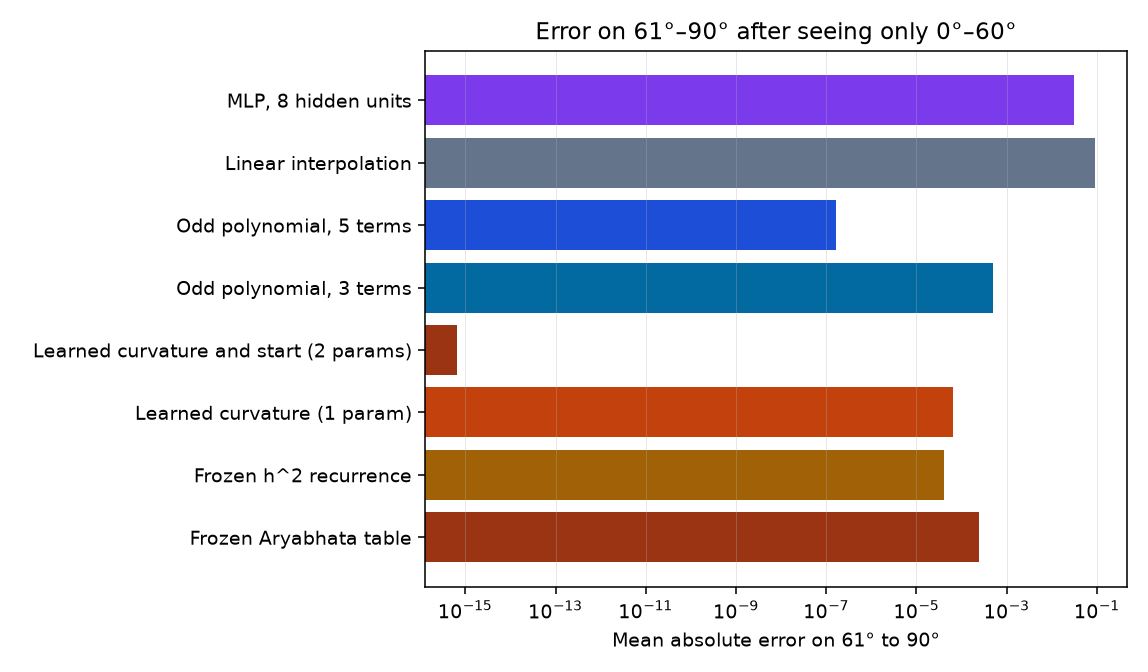
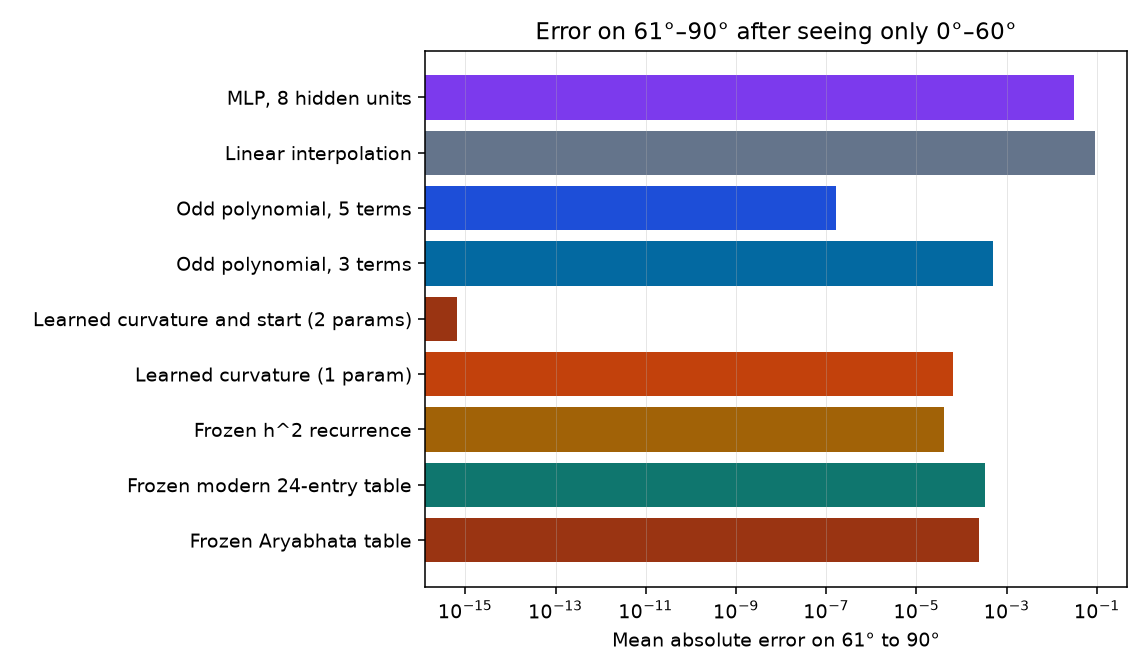
Add a same-size modern sine table as the lookup control.
Round math.sin to the arcminute on Aryabhata's 24 nodes so the printed table is compared with a lookup of equal size, not only with series and networks.

diff --git a/experiments/aryabhata/compare.py b/experiments/aryabhata/compare.py
@@ -39,6 +39,7 @@ from experiments.aryabhata.jya import (
     aryabhata_pi,
     aryabhata_unit_sines,
     modern_jya,
+    modern_rounded_jya,
     oracle_alpha,
     oracle_unit_sines,
     published_jya,
@@ -68,6 +69,8 @@ MLP_HIDDEN = 8
 
 _COLORS = {
     "Aryabhata printed table": "#9a3412",
+    "Modern 24-entry table": "#0f766e",
+    "Frozen modern 24-entry table": "#0f766e",
     "Aryabhata recurrence": "#c2410c",
     "Small-angle recurrence h^2": "#b45309",
     "Power series, 3 terms": "#0f766e",
@@ -117,6 +120,12 @@ def formula_report() -> list[dict]:
             "Gitikapada 12, the 24 integers he published",
             24,
             np.array(published_jya(), dtype=float) / RADIUS_ARCMINUTES,
+        ),
+        (
+            "Modern 24-entry table",
+            "Same 24 nodes and arcminute rounding, filled from math.sin",
+            24,
+            np.array(modern_rounded_jya(), dtype=float) / RADIUS_ARCMINUTES,
         ),
         (
             "Aryabhata recurrence",
@@ -246,6 +255,8 @@ def _score_learners(
     native_deg = np.concatenate([[0.0], np.arange(1, 25) * 3.75])
     native_y = np.concatenate([[0.0], np.array(published_jya(), dtype=float) / RADIUS_ARCMINUTES])
     frozen_table = np.interp(test_deg.astype(float), native_deg, native_y)
+    modern_y = np.concatenate([[0.0], np.array(modern_rounded_jya(), dtype=float) / RADIUS_ARCMINUTES])
+    frozen_modern = np.interp(test_deg.astype(float), native_deg, modern_y)
 
     return {
         "train_size": int(len(train_deg)),
@@ -265,6 +276,7 @@ def _score_learners(
         "mlp_q75": float(np.quantile(mlp_maes_arr, 0.75)),
         "Frozen h^2 recurrence": _finite_mae(frozen_h2, truth),
         "Frozen Aryabhata table": _finite_mae(frozen_table, truth),
+        "Frozen modern 24-entry table": _finite_mae(frozen_modern, truth),
     }
 
 
@@ -459,6 +471,7 @@ def _plot_errors(formulas: list[dict], path: Path) -> None:
 def _plot_learning(rows: list[dict], path: Path) -> None:
     methods = [
         "Frozen Aryabhata table",
+        "Frozen modern 24-entry table",
         "Frozen h^2 recurrence",
         "Learned curvature (1 param)",
         "Learned curvature and start (2 params)",
@@ -495,6 +508,7 @@ def _plot_learning(rows: list[dict], path: Path) -> None:
 def _plot_extrapolation(row: dict, path: Path) -> None:
     names = [
         "Frozen Aryabhata table",
+        "Frozen modern 24-entry table",
         "Frozen h^2 recurrence",
         "Learned curvature (1 param)",
         "Learned curvature and start (2 params)",
@@ -539,9 +553,14 @@ def _clean(value):
 
 
 def build_summary(mlp_seeds: int = MLP_SEEDS, mlp_steps: int = MLP_STEPS, kuttaka_trials: int = 400) -> dict:
+    started = time.perf_counter()
     formulas = formula_report()
     learning = learning_report(mlp_seeds=mlp_seeds, mlp_steps=mlp_steps)
     extra = extrapolation_report(mlp_seeds=mlp_seeds, mlp_steps=mlp_steps)
+    pi = pi_report()
+    kuttaka = kuttaka_report(kuttaka_trials)
+    roots = sqrt_report()
+    sums = sums_report()
     summary = {
         "ground_truth": "math.sin, math.pi, math.isqrt",
         "native_step_degrees": 3.75,
@@ -551,14 +570,15 @@ def build_summary(mlp_seeds: int = MLP_SEEDS, mlp_steps: int = MLP_STEPS, kuttak
         "oracle_alpha_native_step": oracle_alpha(math.pi / 48),
         "small_angle_alpha_native_step": small_angle_alpha(math.pi / 48),
         "aryabhata_alpha_native_step": 1 / 225,
+        "runtime_seconds": time.perf_counter() - started,
         "mlp": {"hidden": MLP_HIDDEN, "steps": mlp_steps, "seeds": mlp_seeds, "parameters": 1 * MLP_HIDDEN + MLP_HIDDEN + MLP_HIDDEN + 1},
         "sine_formulas": _strip_arrays(formulas),
         "sample_efficiency": learning,
         "extrapolation": {key: value for key, value in extra.items()},
-        "pi": pi_report(),
-        "kuttaka": kuttaka_report(kuttaka_trials),
-        "square_roots": sqrt_report(),
-        "sums": sums_report(),
+        "pi": pi,
+        "kuttaka": kuttaka,
+        "square_roots": roots,
+        "sums": sums,
     }
     summary["_plot_cache"] = {"formulas": formulas, "learning": learning, "extrapolation": extra}
     return summary

diff --git a/experiments/aryabhata/test_aryabhata.py b/experiments/aryabhata/test_aryabhata.py
@@ -22,6 +22,7 @@ from experiments.aryabhata.jya import (
     RADIUS_ARCMINUTES,
     aryabhata_pi,
     modern_jya,
+    modern_rounded_jya,
     oracle_alpha,
     oracle_unit_sines,
     published_jya,
@@ -53,6 +54,13 @@ class JyaTests(unittest.TestCase):
         truth = modern_jya()
         worst = max(abs(pred - got) for pred, got in zip(published_jya(), truth))
         self.assertLess(worst, 1.0)
+
+    def test_same_size_modern_table_rounds_within_half_an_arcminute(self):
+        truth = modern_jya()
+        rounded = modern_rounded_jya()
+        self.assertEqual(len(rounded), len(published_jya()))
+        worst = max(abs(pred - got) for pred, got in zip(rounded, truth))
+        self.assertLessEqual(worst, 0.5)
 
     def test_thirty_degrees_is_half_the_radius(self):
         # 30 degrees is the 8th node (index 7): 3438 * sin(30 deg) = 1719 exactly.

diff --git a/experiments/aryabhata/jya.py b/experiments/aryabhata/jya.py
@@ -80,6 +80,14 @@ def modern_jya(radius: float = RADIUS_ARCMINUTES, steps: int = NATIVE_STEPS) -> 
     return [radius * math.sin(k * math.pi / (2 * steps)) for k in range(1, steps + 1)]
 
 
+def modern_rounded_jya(radius: int = RADIUS_ARCMINUTES, steps: int = NATIVE_STEPS) -> list[int]:
+    """Same 24 nodes and arcminute precision as the printed table, filled by rounding math.sin.
+
+    This is the lookup-table control: same size, same unit, current values.
+    """
+    return [int(round(value)) for value in modern_jya(radius, steps)]
+
+
 def rollout(steps: int, alpha: float, delta0: float) -> list[float]:
     """Second-difference recurrence. s grows by delta, delta shrinks by alpha*s.
 

diff --git a/experiments/aryabhata/README.md b/experiments/aryabhata/README.md
@@ -16,7 +16,7 @@ Plots and `summary.json` land in `experiments/aryabhata/results/`.
 
 ## What is compared
 
-- **Sine, from a rule.** His printed table and, separately, the raw second-difference loop with divisor 225. Those are not the same: the loop drifts by about a degree, and the 24 integers he published stay inside one arcminute. The same loop with the modern from-scratch constant `h^2` is also scored, along with the Madhava/Taylor series and CORDIC. `math.sin` is the reference, not a contestant.
+- **Sine, from a rule.** His printed table, a modern 24-entry table with the same arcminute rounding, and the raw second-difference loop with divisor 225. The loop is not the table: it drifts by about a degree, and the 24 integers he published stay inside one arcminute. The same loop with the modern from-scratch constant `h^2` is also scored, along with the Madhava/Taylor series and CORDIC. `math.sin` is the reference, not a contestant.
 - **Sine, from samples.** A 1-parameter fit of his curvature, a 2-parameter fit, odd polynomials, linear interpolation, and an 8-unit tanh network (25 parameters). Training angles are an even grid. Test angles are the integer degrees left out.
 - **Extrapolation.** The same learners, trained only up to 60°, scored from 61° to 90°.
 - **Pi.** `62832/20000` against `22/7`, `355/113`, and `math.pi`, on a circle of diameter 20000 (his own statement of the verse).
